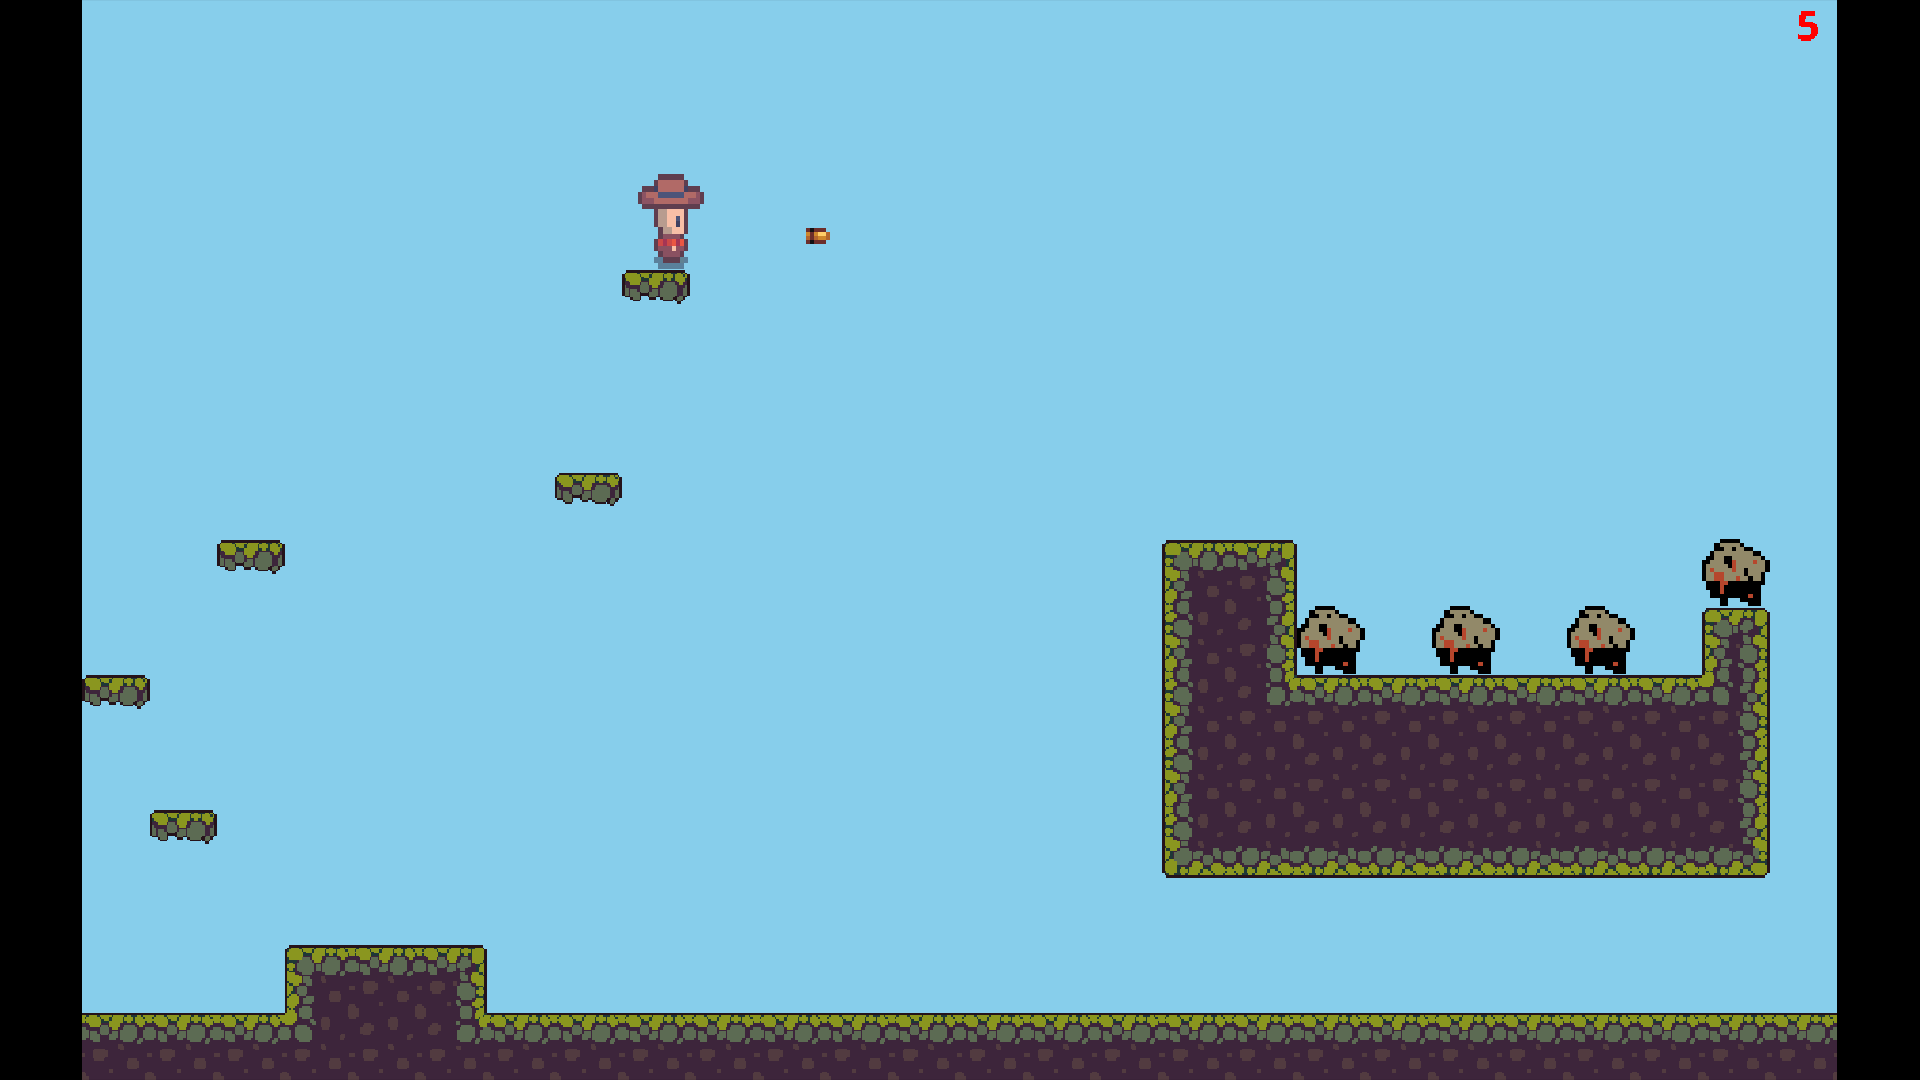
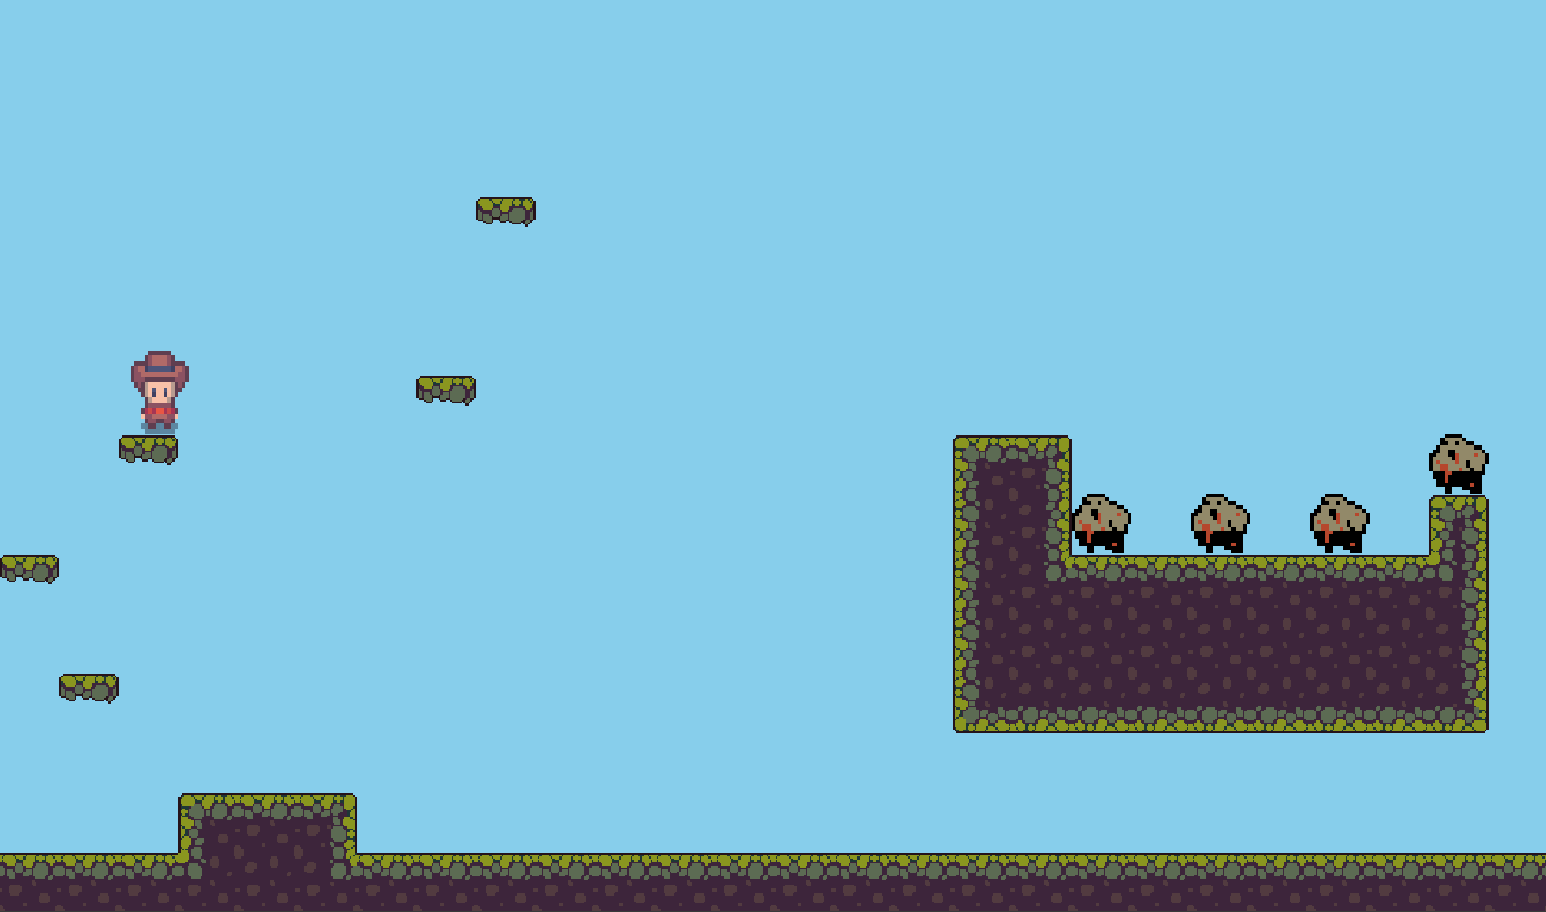
replaced level sneak pics with better ones, changed player shooting direction logic

diff --git a/src/main/java/org/example/Player.java b/src/main/java/org/example/Player.java
@@ -5,6 +5,7 @@ import java.awt.event.KeyEvent;
 
 public class Player extends Entity {
     public Direction facingDirection = Direction.RIGHT;
+    public Direction shootDirection = Direction.RIGHT;
     Point lastSolidPos;
 
     public final int MAX_AMMO = 6;
@@ -41,11 +42,13 @@ public class Player extends Entity {
             this.velocityX += movementForce;
             image = Assets.playerRight;
             facingDirection = Direction.RIGHT;
+            shootDirection = Direction.RIGHT;
         }
         if (keys[KeyEvent.VK_LEFT] || keys[KeyEvent.VK_A]) {
             this.velocityX -= movementForce;
             image = Assets.playerLeft;
             facingDirection = Direction.LEFT;
+            shootDirection = Direction.LEFT;
         }
 
         boolean jumpKeyPressed = keys[KeyEvent.VK_UP] || keys[KeyEvent.VK_SPACE] || keys[KeyEvent.VK_W];
@@ -59,7 +62,7 @@ public class Player extends Entity {
         if (!jumpKeyPressed && jumpKeyPrev && this.velocityY < 0) {
             this.velocityY *= 0.5;
             facingDirection = Direction.DOWN;
-            image = Assets.playerFront;
+//            image = Assets.playerFront;
         }
 
         if (y > Window.HEIGHT) {

diff --git a/src/main/java/org/example/Bullet.java b/src/main/java/org/example/Bullet.java
@@ -11,7 +11,7 @@ public class Bullet extends Entity {
     public Bullet(Player player) {
         // MAGIC NUMBERS IN ORDER TO ALIGN BULLET TO PLAYER HAND
         super(
-                (int) ((player.facingDirection == Direction.LEFT) ? player.x : player.x + 15),
+                (int) ((player.shootDirection == Direction.LEFT) ? player.x : player.x + 15),
                 (int) (player.y + 32),
                 HITBOX_WIDTH,
                 HITBOX_HEIGHT
@@ -19,10 +19,10 @@ public class Bullet extends Entity {
 
         movementForce = 8.5;
 
-        if (player.facingDirection == Direction.LEFT) {
+        if (player.shootDirection == Direction.LEFT) {
             this.velocityX = -movementForce;
             image = Assets.bulletLeft;
-        } else if (player.facingDirection == Direction.RIGHT) {
+        } else if (player.shootDirection == Direction.RIGHT) {
             this.velocityX = movementForce;
             image = Assets.bulletRight;
         }

diff --git a/src/main/java/org/example/Enemy.java b/src/main/java/org/example/Enemy.java
@@ -11,7 +11,7 @@ public class Enemy extends Entity {
 
         lives = 1;
         jumpForce = 11.0;
-        maxVelocityX = 3.0; // TODO this is for test purposes only, change it back to around 3.0
+        maxVelocityX = 3.0;
         maxVelocityY = 16.0;
         movementForce = 2;
 
